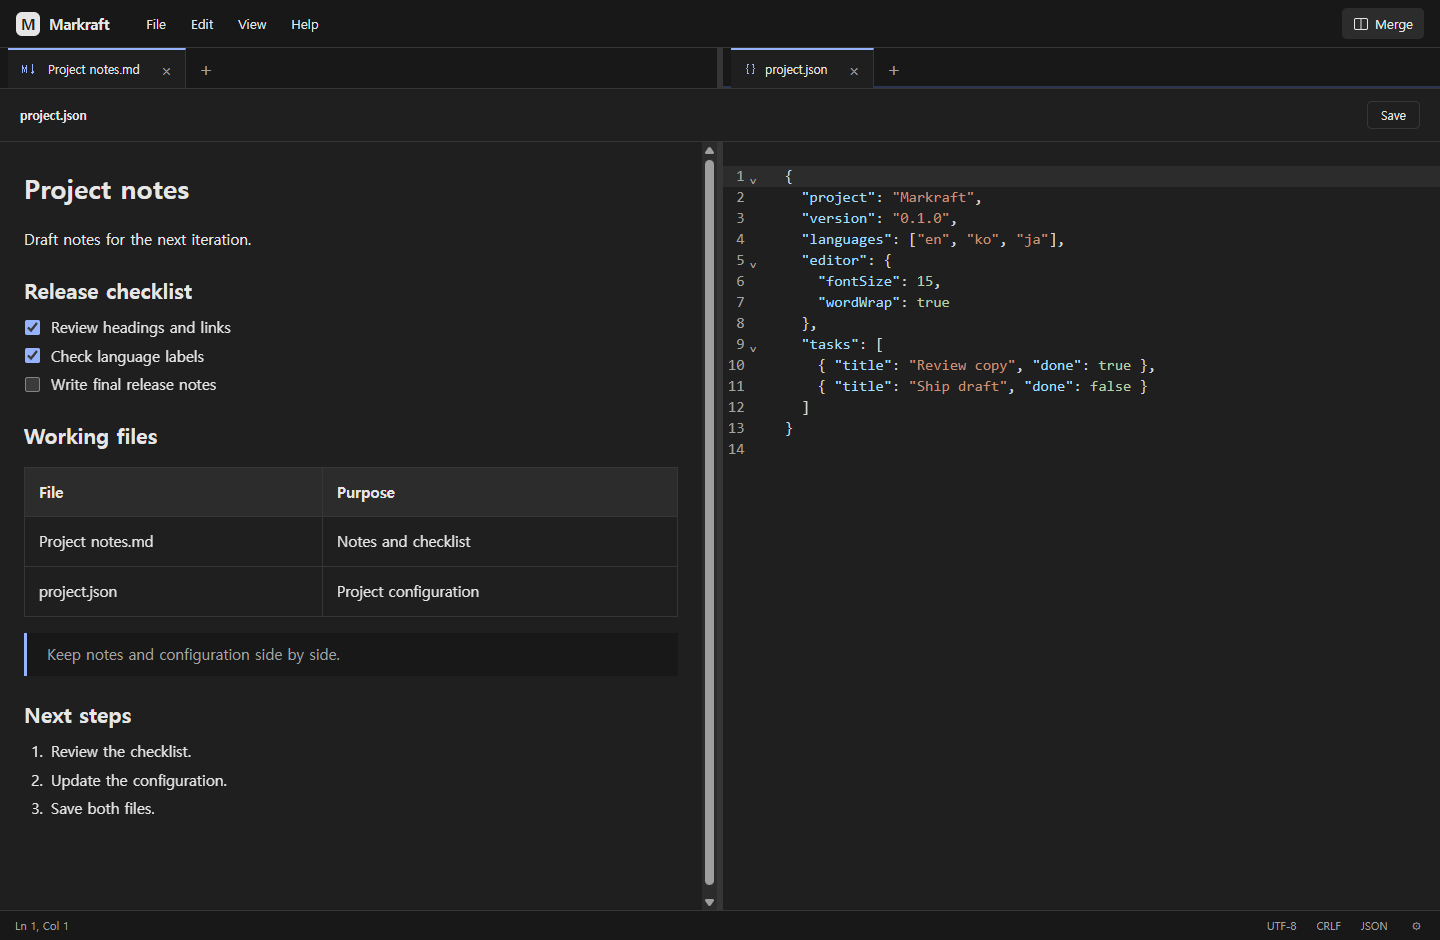
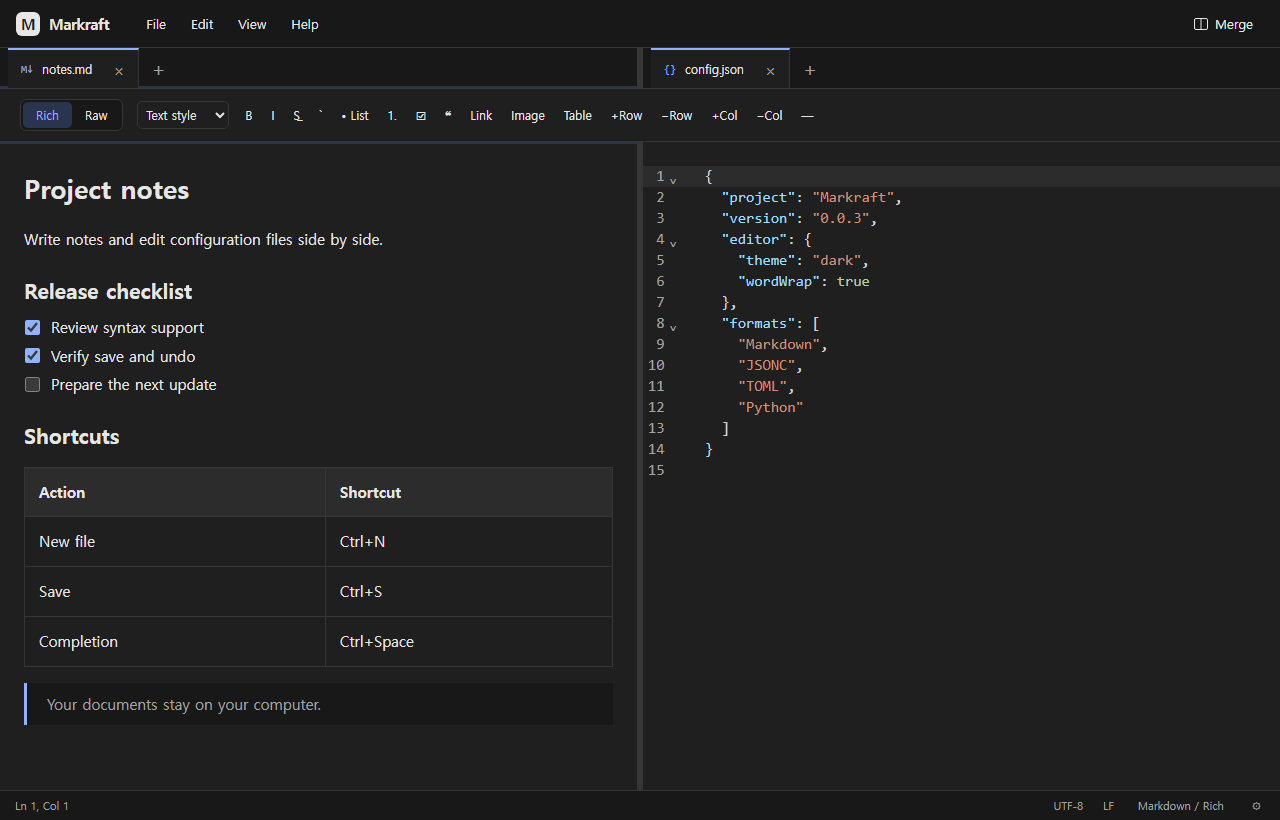
0.0.3 문서와 검증 기록 및 화면 예시를 최신화

diff --git a/README.md b/README.md
@@ -7,7 +7,7 @@
 <p align="center">A desktop editor for Markdown, text, and structured files.</p>
 
 <p align="center">
-  <strong>Markdown</strong> · <strong>Text</strong> · <strong>JSON</strong> · <strong>YAML</strong> · <strong>XML</strong><br>
+  <strong>Markdown</strong> · <strong>Text & logs</strong> · <strong>Configuration & code</strong><br>
   English · 한국어 · 日本語
 </p>
 
@@ -41,6 +41,10 @@ name in the status bar to search and select a language. File names normally
 determine syntax automatically; manual choices stay with the open tab. Save
 dialogs offer the registered formats plus All files. See [syntax support](SYNTAX_SUPPORT.md)
 for detection rules and language-specific capabilities.
+
+File names appear in tabs. Ordinary files have no extra document toolbar;
+Markdown shows only its Rich/Raw switch and, in Rich mode, formatting tools.
+Save through **File → Save** or **Ctrl+S**.
 
 Plain text, logs and Markdown Raw stay quiet while typing. Use **Edit → Complete**
 or **Ctrl+Space** to request suggestions, including words from the current document.
@@ -79,7 +83,11 @@ Download **[Markraft 0.0.3](https://github.com/Hinen/Markraft/releases/tag/v0.0.
 
 Run the Windows installer, or open the DMG and drag Markraft to Applications. Then open a file with **Ctrl+O**, or drop files into the window. The Windows installer is unsigned; the macOS application is ad-hoc signed and not notarized, so the OS may request approval when opening it.
 
-Markraft registers as an **Open with** option for its supported extensions. Choose your default editor in Windows Settings if you want files to open in Markraft automatically.
+Installing or upgrading Markraft registers **48 extensions** as Windows **Open with**
+candidates: syntax-supported formats plus common text files such as `.log`, `.conf`
+and `.config`. This does not change your default editor. Unknown text extensions
+can still be opened from Markraft or by selecting its executable in Windows' app
+picker. Running the development app does not register file associations.
 
 Release installers are built by the [release workflow](.github/workflows/release.yml). Checksums are attached to the release.
 
@@ -123,6 +131,8 @@ Use **Command** in place of **Ctrl** on macOS where supported.
 | Close tab / Close all | `Ctrl+W` / `Ctrl+Shift+W` |
 | Undo / Redo | `Ctrl+Z` / `Ctrl+Y` or `Ctrl+Shift+Z` |
 | Find / Replace / Go to line | `Ctrl+F` / `Ctrl+H` / `Ctrl+G` |
+| Request completion in a source editor | `Ctrl+Space` |
+| Select / Accept / Dismiss a completion | `↑` / `↓`, then `Enter` or `Tab`; `Esc` to dismiss |
 | Switch Rich ↔ Raw | `Ctrl+Shift+M` |
 | Bold / Italic in Rich | `Ctrl+B` / `Ctrl+I` |
 | Next / Previous tab in a pane | `Ctrl+Tab` / `Ctrl+Shift+Tab` |
@@ -200,7 +210,14 @@ tests/         Unit tests, Markdown fixtures, and UI regression checks
 
 ### Verification and dependencies
 
-Windows 11 x64 installer and installed-app checks have been run. Windows 10, current macOS behavior, and some Windows IME/Explorer scenarios still need verification; installers are unsigned. See [QA.md](QA.md) and [regression notes](QA_REGRESSIONS.md) for the tested scope.
+The [0.0.3 release run](https://github.com/Hinen/Markraft/actions/runs/35692787796)
+passed on Windows and macOS: 148 unit tests per platform, 82 Windows browser E2E
+scenarios, Rust checks, Windows installation/association checks, and macOS universal
+architecture, signature, DMG and startup checks. Browser scenarios use a file-bridge
+test double; they are not native desktop UI tests. Windows 10, interactive macOS
+editing, actual Windows IME composition and Explorer default-app selection still
+need verification. See [QA.md](QA.md) and [regression notes](QA_REGRESSIONS.md) for
+current coverage and historical installed-app checks.
 
 ## License
 

diff --git a/QA_REGRESSIONS.md b/QA_REGRESSIONS.md
@@ -1,4 +1,20 @@
-# Markdown 원문 보존 회귀 — 2026-09-21
+# 회귀 검증 기록
+
+## 0.0.3 검증 요약 — 2026-09-22
+
+- 대상 커밋: `7ef4ab13ad9e8487dfb9dd5f3f85e4174e603d29`, 태그 `v0.0.3`.
+- [배포 워크플로](https://github.com/Hinen/Markraft/actions/runs/35692787796)의 Windows/macOS 작업 모두 통과.
+- 각 플랫폼 Vitest **148/148**, Rust **11/11**, fmt/clippy 통과. Windows 전체 Playwright **82/82** 통과.
+- 새 파일 생성 경로 통일, 문법 검색·수동 선택·자동 감지, 추가 문법별 편집·저장·undo, JSONC 검사, 문법 로딩 실패·지연 경쟁을 확인했다.
+- 텍스트·로그·Markdown 소스의 자동 제안 억제, 수동 단어 제안, HTML/CSS/SQL 자동 제안, 후보 선택·취소와 괄호 자동 닫기를 확인했다.
+- 일반 파일 도구 모음 제거, Markdown의 서식/소스 전환과 편집 도구, 분할 영역 전환·저장 단축키를 확인했다. 과거의 고정 높이 도구 모음·별도 Save 버튼·New Markdown/New JSON 메뉴 설명은 최신 UI에 적용되지 않는다.
+- Windows: NSIS 생성·설치 및 48개 후보 등록, 동봉 리소스·제품 버전 검사 통과. 실제 설치 훅을 격리 레지스트리에서 실행해 기본 앱·다른 후보 보존과 제거 정리를 검사했다.
+- macOS: universal 아키텍처, ad-hoc 서명, DMG 내용·마운트, 동봉 문서 일치, 앱 프로세스 시작 검사 통과.
+- 두 플랫폼 프런트엔드 인벤토리는 동일한 **118개 패키지**다. 배포 파일 SHA-256과 업로드 후 GitHub digest를 대조했고, MPL 소스 아카이브 5개를 Cargo.lock 체크섬과 대조했다.
+
+Playwright의 파일 IPC는 테스트 대역이다. 이 결과는 실제 데스크톱에서 모든 조작을 수행한 수동 QA나 IME 검증을 의미하지 않는다. 아래 기록은 각 날짜 당시의 이력이며, 과거 PASS를 이번 버전의 재검증으로 해석하지 않는다.
+
+## Markdown 원문 보존 회귀 — 2026-09-21
 
 사용자가 QA.md를 Rich로 열고 공백 하나를 입력한 뒤 저장했을 때 82줄이 변경되었다. 표의 정렬·구분선과 밑줄 이스케이프가 문서 전체에 적용된 문제다. 앞선 QA의 의미 왕복 검사와 무수정 저장 검사는 이 동작을 잡지 못했다. 앞선 PASS를 수정 후의 원문 보존까지 검증한 것으로 해석하면 안 된다.
 

diff --git a/QA.md b/QA.md
@@ -1,5 +1,19 @@
 # 구현 및 검증 기록
 
+## 현재 릴리스 — 0.0.3 (2026-09-22)
+
+[릴리스](https://github.com/Hinen/Markraft/releases/tag/v0.0.3) ·
+[배포 검증](https://github.com/Hinen/Markraft/actions/runs/35692787796) ·
+[최신 회귀 요약](QA_REGRESSIONS.md#003-검증-요약--2026-09-22)
+
+- Windows/macOS 각각 Vitest 148개, Rust 11개 및 fmt/clippy 통과.
+- Windows Playwright 82개 통과. 파일 브리지는 테스트 대역이며 네이티브 저장 대화상자·IME 검증과 구분한다.
+- Windows NSIS 생성·설치, 버전·동봉 문서·48개 확장자 후보 등록 검증 통과. 별도 격리 레지스트리 테스트로 기존 기본 앱 유지와 제거 정리를 확인했다.
+- macOS universal의 arm64/x86_64, ad-hoc 서명, DMG, 동봉 문서, 앱 시작 검증 통과.
+- Windows 실제 IME 조합, Explorer 기본 앱 선택 UI, Windows 10 및 macOS 대화형 편집 전체는 이번 릴리스 검증에 포함되지 않았다.
+
+아래 2026-09-21 기록은 당시의 검증 결과다. 확장자 수·화면 구성·정책 미결정 사항은 당시 기준이며, 최신 동작이나 이번 버전에서 다시 수행한 네이티브 QA를 뜻하지 않는다.
+
 ## Windows 11 x64 — 2026-09-21
 
 **NSIS 생성·설치와 실제 WebView2/Rust 파일 검증을 수행했다. 전체 출시 조건은 미완료다.** 실제 Microsoft Korean IME, Explorer 직접 조작, 일부 네이티브 대화상자 및 정책 결정이 남아 있다. 아래 PASS는 명시한 범위에만 적용한다.

diff --git a/SYNTAX_SUPPORT.md b/SYNTAX_SUPPORT.md
@@ -27,6 +27,23 @@ Markdown additionally has a dedicated rich editor and toolbar. Adding another
 language's syntax highlighting requires only a registry entry; adding a new rich
 editing experience requires its own editor integration.
 
+The toolbar appears only for the active Markdown document. It contains the
+Rich/Raw switch and Rich formatting tools, without a duplicate file name or Save
+button. Other file types use the tab name and File menu/keyboard save actions.
+
+## Completion behavior
+
+Document-word suggestions are explicit-only in every source editor: Ctrl+Space or
+Edit > Complete. Plain Text (including logs and unknown extensions) and Markdown
+Raw do not open completion popups while typing. Other syntaxes retain the automatic
+sources provided by their language package, such as HTML tags, CSS properties and
+SQL keywords. Not every grammar provides a completion source.
+
+Arrow keys select candidates; Enter or Tab accepts a selected candidate; Escape
+dismisses. Nothing is selected on opening, so normal Enter/Tab behavior is retained.
+Markdown Rich does not offer these completions. Suggestions run locally, without
+AI calls or a language server; bracket/quote auto-closing is handled by CodeMirror.
+
 ## Available syntaxes
 
 - Plain Text, Markdown, JSON, JSONC, YAML, XML (including SVG/XSD/XSL).

diff --git a/PRIVACY.md b/PRIVACY.md
@@ -9,6 +9,11 @@ upload service or include analytics, advertising, account registration, automati
 update checks, or automatic crash-report uploads. Unsaved edits remain in memory;
 there is no crash-recovery service.
 
+Syntax detection, syntax loading and completion run locally. Language grammars
+are packaged with the application; selecting one does not download a model or
+send document contents to a service. Word suggestions use the current document,
+and this version does not connect to an AI completion service or language server.
+
 Language, theme, font, and editor preferences are stored in the application's local
 WebView storage under `markraft.settings`. Local images are read through the native
 file bridge. Saving to a cloud-synchronized folder or network drive uses the location
